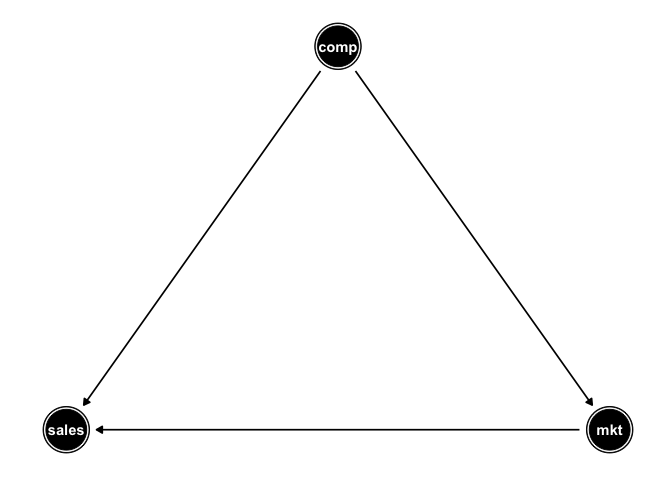
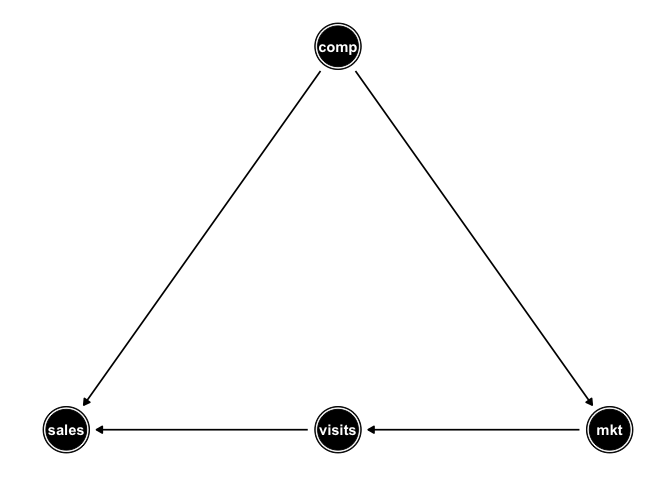
finished Linkedin post draft

Changed region(s): [[0.4688, 0.8438, 0.5625, 0.9688]]

diff --git a/correlation_is_not_causation_so_what_is.md b/correlation_is_not_causation_so_what_is.md
@@ -1,7 +1,7 @@
 "Correlation is not causation". So what is?
 ================
 Iyar Lin
-03 January, 2019
+29 January, 2019
 
 Intro
 =====
@@ -11,7 +11,21 @@ Machine learning applications have been growing in volume and scope rapidly over
 A typical data science task
 ===========================
 
-Imagine we're tasked by the marketing team to find the effect of raising marketing spend on sales. We have at our disposal records of marketing spend (mkt), visits to our website (visits), sales, and competition index (comp). Below are the first few rows of the dataset:
+Imagine we're tasked by the marketing team to find the effect of raising marketing spend on sales. We have at our disposal records of marketing spend (mkt), visits to our website (visits), sales, and competition index (comp).
+
+We'll simulate a dataset using a set of equations (also called structural equations):
+
+![sales = \\beta\_1vists + \\beta\_2comp + \\epsilon\_1](https://latex.codecogs.com/png.latex?sales%20%3D%20%5Cbeta_1vists%20%2B%20%5Cbeta_2comp%20%2B%20%5Cepsilon_1 "sales = \beta_1vists + \beta_2comp + \epsilon_1")
+
+![vists = \\beta\_3mkt + \\epsilon\_2](https://latex.codecogs.com/png.latex?vists%20%3D%20%5Cbeta_3mkt%20%2B%20%5Cepsilon_2 "vists = \beta_3mkt + \epsilon_2")
+
+![mkt = \\beta\_4comp + \\epsilon\_3](https://latex.codecogs.com/png.latex?mkt%20%3D%20%5Cbeta_4comp%20%2B%20%5Cepsilon_3 "mkt = \beta_4comp + \epsilon_3")
+
+with ![\\{\\beta\_1, \\beta\_2, \\beta\_3\\, \\beta\_4\\} = \\{0.3, -0.9, 0.5, 0.6\\}](https://latex.codecogs.com/png.latex?%5C%7B%5Cbeta_1%2C%20%5Cbeta_2%2C%20%5Cbeta_3%5C%2C%20%5Cbeta_4%5C%7D%20%3D%20%5C%7B0.3%2C%20-0.9%2C%200.5%2C%200.6%5C%7D "\{\beta_1, \beta_2, \beta_3\, \beta_4\} = \{0.3, -0.9, 0.5, 0.6\}")
+
+All data presented in graphs or used to fit models below is simulated from the above equations.
+
+Below are the first few rows of the dataset:
 
 <table style="width:46%;">
 <colgroup>
@@ -68,18 +82,6 @@ Imagine we're tasked by the marketing team to find the effect of raising marketi
 </tbody>
 </table>
 
-We'll simulate a dataset using a set of equations (also called structural equations):
-
-![sales = \\beta\_1vists + \\beta\_2comp + \\epsilon\_1](https://latex.codecogs.com/png.latex?sales%20%3D%20%5Cbeta_1vists%20%2B%20%5Cbeta_2comp%20%2B%20%5Cepsilon_1 "sales = \beta_1vists + \beta_2comp + \epsilon_1")
-
-![vists = \\beta\_3mkt + \\epsilon\_2](https://latex.codecogs.com/png.latex?vists%20%3D%20%5Cbeta_3mkt%20%2B%20%5Cepsilon_2 "vists = \beta_3mkt + \epsilon_2")
-
-![mkt = \\beta\_4comp + \\epsilon\_3](https://latex.codecogs.com/png.latex?mkt%20%3D%20%5Cbeta_4comp%20%2B%20%5Cepsilon_3 "mkt = \beta_4comp + \epsilon_3")
-
-with ![\\{\\beta\_1, \\beta\_2, \\beta\_3\\, \\beta\_4\\} = \\{0.3, -0.9, 0.5, 0.6\\}](https://latex.codecogs.com/png.latex?%5C%7B%5Cbeta_1%2C%20%5Cbeta_2%2C%20%5Cbeta_3%5C%2C%20%5Cbeta_4%5C%7D%20%3D%20%5C%7B0.3%2C%20-0.9%2C%200.5%2C%200.6%5C%7D "\{\beta_1, \beta_2, \beta_3\, \beta_4\} = \{0.3, -0.9, 0.5, 0.6\}")
-
-All data presented in graphs or used to fit models below is simulated from the above equations.
-
 Our goal is to predict the effect of raising marketing spend on sales which is 0.15 (from the set of equations above, using product decomposition we get ![\\beta\_1 \\cdot \\beta\_3 = 0.3 \\cdot 0.5 = 0.15](https://latex.codecogs.com/png.latex?%5Cbeta_1%20%5Ccdot%20%5Cbeta_3%20%3D%200.3%20%5Ccdot%200.5%20%3D%200.15 "\beta_1 \cdot \beta_3 = 0.3 \cdot 0.5 = 0.15")).
 
 Common analysis approaches
@@ -92,9 +94,9 @@ Many of us would start off by plotting a scatter plot of sales by marketing:
 
 ![](correlation_is_not_causation_so_what_is_files/figure-markdown_github/plot%20scatter%20plot-1.png)
 
-We can see that the relationship seen in the graph is actually the opposite of what we'd expected! It looks like increasing marketing actually decreases sales. Indeed, not only correlation isn't causation, at times it can even show the opposite.
+We can see that the relationship seen in the graph is actually the opposite of what we'd expected! It looks like increasing marketing actually decreases sales. Indeed, not only correlation isn't causation, at times it can show a relation opposite to the true causation.
 
-Fitting a simple linear model ![sales = r\_0 + r\_1mkt + \\epsilon](https://latex.codecogs.com/png.latex?sales%20%3D%20r_0%20%2B%20r_1mkt%20%2B%20%5Cepsilon "sales = r_0 + r_1mkt + \epsilon") would yield the following coefficients (note ![r](https://latex.codecogs.com/png.latex?r "r") is a regression coefficient where's ![\\beta](https://latex.codecogs.com/png.latex?%5Cbeta "\beta") is a true parameter in the structural equations):
+Fitting a simple linear model ![sales = r\_0 + r\_1mkt + \\epsilon](https://latex.codecogs.com/png.latex?sales%20%3D%20r_0%20%2B%20r_1mkt%20%2B%20%5Cepsilon "sales = r_0 + r_1mkt + \epsilon") would yield the following coefficients: (note ![r](https://latex.codecogs.com/png.latex?r "r") is a regression coefficient where's ![\\beta](https://latex.codecogs.com/png.latex?%5Cbeta "\beta") is a true parameter in the structural equations)
 
 <table style="width:32%;">
 <colgroup>
@@ -149,18 +151,18 @@ When running the regression ![sales = r\_0 + r\_1mkt + r\_2visits + r\_3comp + \
 </tbody>
 </table>
 
-Now it looks like marketing has almost no effect at all! Since we simulated the data from a set of linear equations we know that using more sophisticated models (e.g. XGBoost, GAMs) can't produce better results (I entourage the skeptic reader to try this out by re-running the [Rmd script](https://github.com/IyarLin/causal-inference/blob/master/correlation_is_not_causation_so_what_is.Rmd) used to produce this report).
+Now it looks like marketing spend has almost no effect at all! Since we simulated the data from a set of linear equations we know that using more sophisticated models (e.g. XGBoost, GAMs) can't produce better results (I encourage the skeptic reader to try this out by re-running the [Rmd script](https://github.com/IyarLin/causal-inference/blob/master/correlation_is_not_causation_so_what_is.Rmd) used to produce this report).
 
 Maybe we should consider the relation between features too...
 =============================================================
 
-When consulting the marketing team we learn that in highly competitive markets the team would usually increase marketing spend (this is reflected in the coefficient ![\\beta\_4 = 0.6](https://latex.codecogs.com/png.latex?%5Cbeta_4%20%3D%200.6 "\beta_4 = 0.6") above). So it's possible that competition is a "confounding" factor since when we observe high marketing spend there's also high competition thus leading to lower sales.
+Quite baffled by the results obtained so far we turn to consult the marketing team and we learn that in highly competitive markets the team would usually increase marketing spend (this is reflected in the coefficient ![\\beta\_4 = 0.6](https://latex.codecogs.com/png.latex?%5Cbeta_4%20%3D%200.6 "\beta_4 = 0.6") above). So it's possible that competition is a "confounding" factor: when we observe high marketing spend there's also high competition thus leading to lower sales.
 
 Also, we notice that marketing probably affects visits to our site and those visits in turn affect sales.
 
 We can visualize these feature inter-dependencies with a directed a-cyclic graph (DAG):
 
-![](correlation_is_not_causation_so_what_is_files/figure-markdown_github/plot%20DAG2-1.png)
+![](correlation_is_not_causation_so_what_is_files/figure-markdown_github/plot%20DAG-1.png)
 
 So it would make sense to account for the confounding competition by adding it to our regression. Adding visits to our model however somehow "blocks" or "absorbs" the effect of marketing on sales so we should omit it from our model.
 
@@ -181,23 +183,23 @@ Fitting the model ![sales = r\_0 + r\_1mkt + r\_2comp + \\epsilon](https://latex
 </thead>
 <tbody>
 <tr class="odd">
-<td align="center">662.2</td>
-<td align="center">0.1524</td>
-<td align="center">-90.89</td>
+<td align="center">654.8</td>
+<td align="center">0.1494</td>
+<td align="center">-89.8</td>
 </tr>
 </tbody>
 </table>
 
 Now we finally got the right effect estimate!
 
-The way we got there was a bit shaky though. We came up with general concepts around "confounding" and "blocking" of features. Trying to apply those to datasets consisting of tens of variables with complicated relationships would probably prove tremendously hard.
+The way we got there was a bit shaky though. We came up with general concepts such as "confounding" and "blocking" of features. Trying to apply these to datasets consisting of tens of variables with complicated relationships would probably prove tremendously hard.
 
 So now what? Causal inference!
 ==============================
 
 So far we've seen that trying to estimate the effect of marketing spend on sales by examining bi-variate plots can fail bad. We've also seen that standard ML practices of throwing all available features into our model can fail too. It would seem we need to carefully construct the set of covariates included in our model in order to obtain the true effect.
 
-In causal inference this covariate set is also termed "adjustment set". Given a model DAG we can utilize various algorithms that rely on rules in similar spirit to the considerations we mentioned above such as "confounding" and "blocking", to find the correct adjustment set.
+In causal inference this covariate set is also termed "adjustment set". Given a model DAG we can utilize various algorithms that rely on rules very much like those mentioned above such as "confounding" and "blocking", to find the correct adjustment set.
 
 Backdoor criteria
 -----------------
@@ -208,7 +210,7 @@ Consider for example the DAG below where we're interested in finding the effect 
 
 ![](correlation_is_not_causation_so_what_is_files/figure-markdown_github/plot%20large%20DAG-1.png)
 
-Using the backdoor-criterion (implemented in the R package "dagitty") we can find the correct adjustment sets:
+Using the backdoor-criterion (implemented in the R package "dagitty") we can find the correct adjustment set:
 
 ![](correlation_is_not_causation_so_what_is_files/figure-markdown_github/plot%20adjustemnt%20sets-1.png)
 
@@ -219,13 +221,13 @@ Finding the model DAG can be admittedly challenging. It can be done using any co
 
 -   Use domain knowledge
 -   Given a few candidate model DAGs one can perform statistical tests to compare their fit to the data at hand
--   Use search algorithms (e.g. those implemented in the R "mgm" package)
+-   Use search algorithms (e.g. those implemented in the R "mgm" or "bnlearn" packages)
 
 I'll touch upon this subject in more breadth in a future post.
 
 Further reading
 ---------------
 
-To anyone curious to learn a bit more about the questions I've tried to answer in this report I'll recommend reading the light-weight Technical Report by Pearl: [The Seven Tools of Causal Inference with Reflections on Machine Learning](https://ftp.cs.ucla.edu/pub/stat_ser/r481.pdf).
+To anyone curious to learn a bit more about the questions I've tried to answer in this report I'll recommend reading the light-weight Technical Report by Pearl: [The Seven Tools of Causal Inference with Reflections on Machine Learning](https://github.com/IyarLin/causal-inference/blob/master/miscellaneous%20files/The%20Seven%20Pillars%20of%20Causal%20Reasoning%20with%20Reflections%20on%20Machine%20Learning%20Pearl%202018.pdf)
 
-For a more in-depth introduction to Causal inference and the DAG machinery I'd recommend getting Pearl's short book: [Causal Inference in Statistics - A Primer](https://www.amazon.com/Causal-Inference-Statistics-Judea-Pearl/dp/1119186846)
+For a more in-depth introduction to Causal inference and the DAG machinery I'd recommend getting Pearl's short book: [Causal Inference in Statistics - A Primer](http://bayes.cs.ucla.edu/PRIMER/)

diff --git a/post drafts/no_hidden_confounders_causal_inference.md b/post drafts/no_hidden_confounders_causal_inference.md
@@ -1,0 +1,52 @@
+No hidden confounders causal inference
+================
+Iyar Lin
+17 January, 2019
+
+-   [Intro](#intro)
+-   [Relatively small effect size](#relatively-small-effect-size)
+
+Intro
+=====
+
+In this post we'll restrict ourselves to the case of some binary treatment ![X](https://latex.codecogs.com/png.latex?X "X") with ![X = 1](https://latex.codecogs.com/png.latex?X%20%3D%201 "X = 1") indicating treatment assignment and ![X = 0](https://latex.codecogs.com/png.latex?X%20%3D%200 "X = 0") control assignment. We're interested with estimating the average treatment effect (ATE) of ![X](https://latex.codecogs.com/png.latex?X "X") on some continuous outcome variable ![Y](https://latex.codecogs.com/png.latex?Y "Y"). In mathmatical notation ![\\mathbb{E}(Y|X=1) - \\mathbb{E}(Y|X=0)](https://latex.codecogs.com/png.latex?%5Cmathbb%7BE%7D%28Y%7CX%3D1%29%20-%20%5Cmathbb%7BE%7D%28Y%7CX%3D0%29 "\mathbb{E}(Y|X=1) - \mathbb{E}(Y|X=0)").
+
+We saw in a previous post ( ["Correlation is not causation". So what is?](https://github.com/IyarLin/causal-inference/blob/master/correlation_is_not_causation_so_what_is.md) ) that fitting a model ![Y = f(X) + \\epsilon](https://latex.codecogs.com/png.latex?Y%20%3D%20f%28X%29%20%2B%20%5Cepsilon "Y = f(X) + \epsilon") and computing ![\\hat{ATE} = \\hat{f}(1) - \\hat{f}(0)](https://latex.codecogs.com/png.latex?%5Chat%7BATE%7D%20%3D%20%5Chat%7Bf%7D%281%29%20-%20%5Chat%7Bf%7D%280%29 "\hat{ATE} = \hat{f}(1) - \hat{f}(0)") won't do the trick if there's some confounding variable ![Z](https://latex.codecogs.com/png.latex?Z "Z"). In general we saw that we need to fit the model ![Y = f(X,Z) + \\epsilon](https://latex.codecogs.com/png.latex?Y%20%3D%20f%28X%2CZ%29%20%2B%20%5Cepsilon "Y = f(X,Z) + \epsilon") where ![Z](https://latex.codecogs.com/png.latex?Z "Z") is a set of varibels called "adjutment set". We can than estimate the ATE by ![\\hat{ATE} = \\mathbb{E}\_Z(\\hat{f}(1, Z) - \\hat{f}(0, Z))](https://latex.codecogs.com/png.latex?%5Chat%7BATE%7D%20%3D%20%5Cmathbb%7BE%7D_Z%28%5Chat%7Bf%7D%281%2C%20Z%29%20-%20%5Chat%7Bf%7D%280%2C%20Z%29%29 "\hat{ATE} = \mathbb{E}_Z(\hat{f}(1, Z) - \hat{f}(0, Z))")
+
+Even after we find the correct adjustment set ![Z](https://latex.codecogs.com/png.latex?Z "Z") we may still face some challenges which require the use of specially designed algorithms rather than the familiar run of the mill ML ones.
+
+Relatively small effect size
+============================
+
+Classic ML algorithms are geared towards accurate prediction of ![f(X, Z)](https://latex.codecogs.com/png.latex?f%28X%2C%20Z%29 "f(X, Z)"), not ![f(1,Z) - f(0,Z)](https://latex.codecogs.com/png.latex?f%281%2CZ%29%20-%20f%280%2CZ%29 "f(1,Z) - f(0,Z)"). If the effect of changing ![X](https://latex.codecogs.com/png.latex?X "X") is small when compared with the effect of changes in some variables in ![Z](https://latex.codecogs.com/png.latex?Z "Z") than the difference ![f(1,Z) - f(0,Z)](https://latex.codecogs.com/png.latex?f%281%2CZ%29%20-%20f%280%2CZ%29 "f(1,Z) - f(0,Z)") might wash out.
+
+Let's consider for example the following model (defined by a set of equations, also termed "structural equations"):
+
+![Y = \\beta\_0 + \\beta\_1 X + \\beta\_2 Z + \\epsilon](https://latex.codecogs.com/png.latex?Y%20%3D%20%5Cbeta_0%20%2B%20%5Cbeta_1%20X%20%2B%20%5Cbeta_2%20Z%20%2B%20%5Cepsilon "Y = \beta_0 + \beta_1 X + \beta_2 Z + \epsilon")
+
+![X = 1 \\, \\text{if} \\, Z + U\_x &gt; 0.4, \\, X = 0 \\, \\text{if} \\, Z + U\_x \\leq 0.4](https://latex.codecogs.com/png.latex?X%20%3D%201%20%5C%2C%20%5Ctext%7Bif%7D%20%5C%2C%20Z%20%2B%20U_x%20%3E%200.4%2C%20%5C%2C%20X%20%3D%200%20%5C%2C%20%5Ctext%7Bif%7D%20%5C%2C%20Z%20%2B%20U_x%20%5Cleq%200.4 "X = 1 \, \text{if} \, Z + U_x > 0.4, \, X = 0 \, \text{if} \, Z + U_x \leq 0.4")
+
+and
+
+![Z = U\_z](https://latex.codecogs.com/png.latex?Z%20%3D%20U_z "Z = U_z")
+
+Where ![U\_x, \\, U\_z, \\, \\epsilon \\sim \\mathbb{N}(0,1)](https://latex.codecogs.com/png.latex?U_x%2C%20%5C%2C%20U_z%2C%20%5C%2C%20%5Cepsilon%20%5Csim%20%5Cmathbb%7BN%7D%280%2C1%29 "U_x, \, U_z, \, \epsilon \sim \mathbb{N}(0,1)") and ![\\{\\beta\_0, \\beta\_1, \\beta\_2\\} = \\{0.2, 0.1, -0.8\\}](https://latex.codecogs.com/png.latex?%5C%7B%5Cbeta_0%2C%20%5Cbeta_1%2C%20%5Cbeta_2%5C%7D%20%3D%20%5C%7B0.2%2C%200.1%2C%20-0.8%5C%7D "\{\beta_0, \beta_1, \beta_2\} = \{0.2, 0.1, -0.8\}")
+
+So the treatment effect in this case is ![\\beta\_1 = 0.1](https://latex.codecogs.com/png.latex?%5Cbeta_1%20%3D%200.1 "\beta_1 = 0.1")
+
+I've simulated a dataset from the above equations and fitted the model ![\\hat{f}(X,Z)](https://latex.codecogs.com/png.latex?%5Chat%7Bf%7D%28X%2CZ%29 "\hat{f}(X,Z)") using a decision tree. Below I plot the fitted tree:
+
+``` r
+N <- 1000
+Z <- rnorm(N)
+X <- Z + rnorm(N) > 0.4
+Y <- 0.2 + X*(0.1) - 0.8 * Z + rnorm(N)
+sim_data <- data.frame(X, Z, Y)
+
+a <- rpart(Y ~ X + Z, data = sim_data)
+rpart.plot(a)
+```
+
+![](no_hidden_confounders_causal_inference_files/figure-markdown_github/simulate%20dataset-1.png)
+
+We can see that the tree completely ignores the ![X](https://latex.codecogs.com/png.latex?X "X") variable, giving the impression there's no treatment effect at all. I've simulated a very simple dataset and used a very simple model for illustration purposes. The problem I've demonstrated persists when using more sophisticated algortihms on high dimensional datasets with non-linear relationships.
